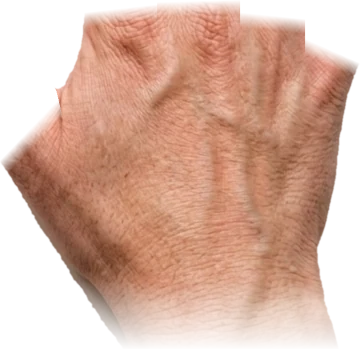
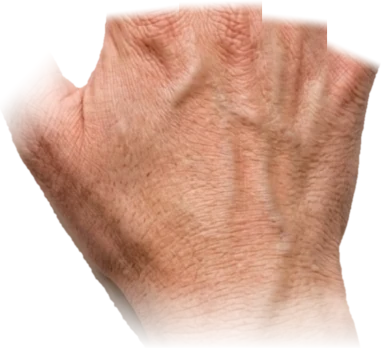
Hands turn at the wrist while the thumb passes under (RH wrist right, LH wrist left); softer palm edge on the thumb side
Claude-Session: https://claude.ai/code/session_01PU4FbLcx8rp9mpZcyLcEXd

diff --git a/public/hands.js b/public/hands.js
@@ -19,9 +19,9 @@ const KNUCK=[-1.7,-1.4,-0.47,0.47,1.4];   /* where each finger joins the palm */
 const FW=[0.95,0.78,0.8,0.77,0.68];
 const PALMH=1.8;                                /* the back of the hand is as long as it is wide; the arm runs off the bottom edge */                /* finger widths in key widths */
 let PH={ready:false,meta:null,lmeta:null}; const kick=()=>{ if(!raf&&svg){ last=0; raf=requestAnimationFrame(tick); } };
-try{ fetch('hands/meta.json?v=3').then(r=>r.json()).then(m=>{ PH.meta=m; PH.ready=true; kick(); }).catch(()=>{});
+try{ fetch('hands/meta.json?v=4').then(r=>r.json()).then(m=>{ PH.meta=m; PH.ready=true; kick(); }).catch(()=>{});
   /* a separate photo of the left hand, when there is one (built flipped, so it is placed like the right hand and mirrored back) */
-  fetch('hands/lh/meta.json?v=3').then(r=>r.ok?r.json():null).then(m=>{ if(!m) return; PH.lmeta=m; const h=H.lh; if(h&&h.pi) Object.keys(h.pi).forEach(n=>h.pi[n].setAttribute('href','hands/lh/'+n+'.webp?v=3')); kick(); }).catch(()=>{}); }catch(_){}
+  fetch('hands/lh/meta.json?v=4').then(r=>r.ok?r.json():null).then(m=>{ if(!m) return; PH.lmeta=m; const h=H.lh; if(h&&h.pi) Object.keys(h.pi).forEach(n=>h.pi[n].setAttribute('href','hands/lh/'+n+'.webp?v=4')); kick(); }).catch(()=>{}); }catch(_){}
 let real=true; try{ if(localStorage.getItem('ps-hreal')==='0') real=false; }catch(_){}
 let paused=false, ro=null, lastA=null, defs=null, gp=null, gs=[], host=null, svg=null, skinBox=null, raf=0, last=0, geo={kw:20,HP:56,kbH:80,W:600,xOf:()=>0,yOf:()=>0}; const H={};
 const el=(p,tag,a)=>{ const e=document.createElementNS(NS,tag); for(const k in a) e.setAttribute(k,a[k]); p.appendChild(e); return e; };
@@ -31,7 +31,7 @@ function makeHand(side){
   const g=el(svg,'g',{}), h={side,g,on:false,init:false,x:0,py:0,f:0,tx:0,ty:0,c:0,cT:0,k:3,pm:null,pf:0,cm:null,cf:0,zf:0,over:-1,
     fx:[0,0,0,0,0],fy:[0,0,0,0,0],ftx:[0,0,0,0,0],fty:[0,0,0,0,0]};
   h.fore=el(g,'path',{}); h.sl=el(g,'path',{}); h.cu=el(g,'path',{}); h.cb=el(g,'circle',{}); h.ac=el(g,'g',{}); h.m1=el(g,'path',{}); h.thumb=fingerNodes(g,2); h.m2=el(g,'path',{}); h.fing=[1,2,3,4].map(()=>fingerNodes(g,3));
-  h.palm=el(g,'path',{}); h.pout=el(g,'path',{fill:'none','stroke-linejoin':'round'}); h.pl=el(g,'ellipse',{}); h.td=el(g,'path',{fill:'none','stroke-linecap':'round'}); h.top=el(g,'g',{}); h.pg=el(g,'g',{filter:'url(#psskin)',display:'none'}); h.pi={}; const pre=(side==='lh'&&PH.lmeta)?'hands/lh/':'hands/', vq='?v=3'; ['thumb','index','middle','ring','pinky','palm'].forEach(n=>{ h.pi[n]=el(h.pg,'image',Object.assign({href:pre+n+'.webp'+vq,preserveAspectRatio:'none'},n==='palm'?{mask:'url(#pswm)'}:{})); }); g.insertBefore(h.pg,h.sl); [h.sl,h.cu,h.cb,h.ac].forEach(x=>g.insertBefore(x,h.top));
+  h.palm=el(g,'path',{}); h.pout=el(g,'path',{fill:'none','stroke-linejoin':'round'}); h.pl=el(g,'ellipse',{}); h.td=el(g,'path',{fill:'none','stroke-linecap':'round'}); h.top=el(g,'g',{}); h.pg=el(g,'g',{filter:'url(#psskin)',display:'none'}); h.pi={}; const pre=(side==='lh'&&PH.lmeta)?'hands/lh/':'hands/', vq='?v=4'; ['thumb','index','middle','ring','pinky','palm'].forEach(n=>{ h.pi[n]=el(h.pg,'image',Object.assign({href:pre+n+'.webp'+vq,preserveAspectRatio:'none'},n==='palm'?{mask:'url(#pswm)'}:{})); }); g.insertBefore(h.pg,h.sl); [h.sl,h.cu,h.cb,h.ac].forEach(x=>g.insertBefore(x,h.top));
   H[side]=h; return h;
 }
 function fingerNodes(g,ns){ const gg=el(g,'g',{}); const o={g:gg,seg:[],hl:null};
@@ -217,15 +217,17 @@ function drawPhoto(h,T,kw,lk,dir,pb,pt,cx,palmH){
   set(h.pg,{display:''}); [h.sl,h.cu,h.cb,h.ac].forEach(x=>set(x,{display:'none'})); ['fore','m1','m2','palm','pout','pl','td'].forEach(n=>set(h[n],{display:'none'}));
   h.thumb.seg.concat(h.fing.flatMap(f=>f.seg)).concat([h.thumb.hl]).concat(h.fing.map(f=>f.hl)).forEach(e=>e.setAttribute('d',''));
   const mat=(a,b,c,d,e,f)=>'matrix('+[a,b,c,d,e,f].map(v=>v.toFixed(3)).join(' ')+')';
-  const pm=M.palm, P=(px,py)=>[cx+dir*k*(px-pm.ax), ay0+k*(pm.ay-py)];
-  set(h.pi.palm,{width:pm.w,height:pm.h,transform:mat(dir*k,0,0,-k,cx-dir*k*pm.ax,ay0+k*pm.ay)});
+  /* while the thumb passes under (or a finger crosses over it) the hand turns at the wrist: the right wrist swings right, the left wrist swings left */
+  const th=dir*.3*Math.max(0,Math.min(1,h.c)), cs=Math.cos(th), sn=Math.sin(th), Rt=p=>[cx+(p[0]-cx)*cs-(p[1]-ay0)*sn, ay0+(p[0]-cx)*sn+(p[1]-ay0)*cs];
+  const pm=M.palm, P=(px,py)=>Rt([cx+dir*k*(px-pm.ax), ay0+k*(pm.ay-py)]);
+  set(h.pi.palm,{width:pm.w,height:pm.h,transform:'rotate('+(th*180/Math.PI).toFixed(2)+' '+cx.toFixed(1)+' '+ay0.toFixed(1)+') '+mat(dir*k,0,0,-k,cx-dir*k*pm.ax,ay0+k*pm.ay)});
   /* one sprite from its base to a target tip. */
   const place=(img,m,B,tx,ty,smin,smax,wscale)=>{ let dx=tx-B[0], dy=ty-B[1], L=Math.hypot(dx,dy)||1, ln=k*m.len, sy=Math.max(smin,Math.min(smax,L/ln)); const Ax=dx/L, Ay=dy/L, sx=(wscale||1)*Math.pow(sy,.35);
     const a=k*sx*dir*Ay, b=-k*sx*dir*Ax, c=-k*sy*Ax, d=-k*sy*Ay, e=B[0]-a*m.bx-c*m.by, f=B[1]-b*m.bx-d*m.by;
     set(img,{width:m.w,height:m.h,transform:mat(a,b,c,d,e,f)}); return [B[0]+Ax*ln*sy,B[1]+Ay*ln*sy,Ax,Ay]; };
   const names=['index','middle','ring','pinky'], tips=[];
   /* thumb: its base glides from the side of the hand to under the palm while it crosses */
-  { const m=M.thumb, bs=P(pm.ax+m.base[0],pm.ay+m.base[1]), mb=[cx+(-1.45+1.35*h.c)*dir*kw,pb-lk*1.2], B=[bs[0]+(mb[0]-bs[0])*h.c*.6, bs[1]+(mb[1]-bs[1])*h.c*.6];
+  { const m=M.thumb, bs=P(pm.ax+m.base[0],pm.ay+m.base[1]), mb=Rt([cx+(-1.45+1.35*h.c)*dir*kw,pb-lk*1.2]), B=[bs[0]+(mb[0]-bs[0])*h.c*.6, bs[1]+(mb[1]-bs[1])*h.c*.6];
     let tx=h.fx[0], ty=h.fy[0]; if(h.f!==1){ const ln=k*m.len, nx=B[0]-dir*.5*ln*.9, ny=B[1]+.866*ln*.9, c=h.c; tx=nx+(tx-nx)*c; ty=ny+(ty-ny)*c; }
     const t=place(h.pi.thumb,m,B,tx,ty,.7,1.9,1); tips[0]=t;
     const under=h.c>.35&&!(h.f===1&&Math.hypot(h.fx[0]-h.ftx[0],h.fy[0]-h.fty[0])<kw*.6); if(under!==h.tu||h.pi.thumb.parentNode!==h.pg){ h.tu=under; if(under) h.pg.insertBefore(h.pi.thumb,h.pg.firstChild); else h.pg.appendChild(h.pi.thumb); } }

diff --git a/public/index.html b/public/index.html
@@ -691,7 +691,7 @@ audio{width:100%}
     </div>
   </div>
 </div>
-<footer class="credits">Recorded sounds: Splendid Grand Piano (public domain) · Wurlitzer EP200 by Greg Sullivan (CC BY 3.0) · electric and upright bass by D. Smolken / Karoryfer (CC0) · drums, percussion and tenor sax from the Versilian Community Sample Library (CC0) and Sample Pi (CC0). Soloist lines are generated, not recordings. Notation by VexFlow (MIT).<br>Version 2026.11.15-bj (Ask Piano Study Suite)</footer>
+<footer class="credits">Recorded sounds: Splendid Grand Piano (public domain) · Wurlitzer EP200 by Greg Sullivan (CC BY 3.0) · electric and upright bass by D. Smolken / Karoryfer (CC0) · drums, percussion and tenor sax from the Versilian Community Sample Library (CC0) and Sample Pi (CC0). Soloist lines are generated, not recordings. Notation by VexFlow (MIT).<br>Version 2026.11.15-bk (Ask Piano Study Suite)</footer>
 <div class="sheet-modal" id="sheetModal" hidden role="dialog" aria-modal="true" aria-label="Sheet music">
   <div class="sheet-bar"><b>Print</b>
     <label class="check"><input type="checkbox" id="sheetMusic" checked> Sheet music</label>
@@ -2981,7 +2981,7 @@ init();
 <script src="class.js?v=x" defer></script>
 <script src="progress.js" defer></script>
 <script src="ear.js?v=zw" defer></script>
-<script src="hands.js?v=38" defer></script>
+<script src="hands.js?v=39" defer></script>
 <script src="practice.js?v=ak" defer></script>
 <script src="scale-library.js" defer></script>
 <script src="scales.js?v=8" defer></script>
